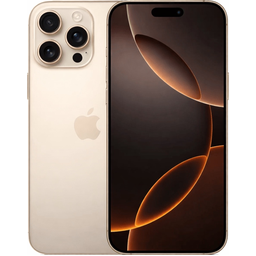
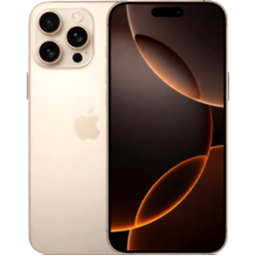
fix: swap iPhone 16 to new Pro Max image v4

diff --git a/src/app/page.tsx b/src/app/page.tsx
@@ -31,7 +31,7 @@ const IPHONE_SERIES = [
       { id: "iphone17promax", label: "iPhone 17 Pro Max", size: '6.9"' },
       { id: "iphone17air", label: "iPhone 17 Air", size: '6.6"' },
     ]},
-  { id: "16", label: "iPhone 16", image: "/iphone16.png?v=3", year: "2024", frame: "#3C3C3C", accent: "#7856FF", notch: "dynamic", cameras: 3, edges: "round",
+  { id: "16", label: "iPhone 16", image: "/iphone16.png?v=4", year: "2024", frame: "#3C3C3C", accent: "#7856FF", notch: "dynamic", cameras: 3, edges: "round",
     variants: [
       { id: "iphone16", label: "iPhone 16", size: '6.1"' },
       { id: "iphone16plus", label: "iPhone 16 Plus", size: '6.7"' },
